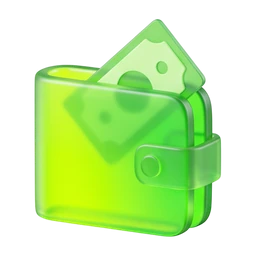
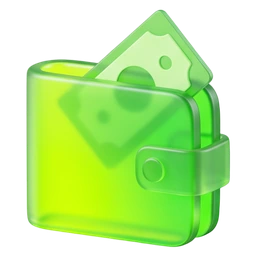
Ícones 3D: recorte com a transparência da fal (sem manchas brancas no escuro)
Claude-Session: https://claude.ai/code/session_0153DZoPQtKfxmP6LB1CwgVi

diff --git a/DESIGN.md b/DESIGN.md
@@ -34,5 +34,5 @@ One design, two palettes. The structure comes from the Duo Finn concept (sidebar
 - History bars are translucent green "glass" bars; the current month glows.
 
 ## Imagery
-- 3D icons in `public/img` (256px webp), one per card header, mapped in one place (`ILL` in `src/main.js`): carteira, calendario, balanca, cartoes, casa, cofre, grafico, bussola, cadeado, canecas, recibo, alvo. Translucent frosted glass in Robin Neon to Robinhood green, generated with fal (`google/nano-banana-2.1`) as two 3×2 sheets on white; white removed locally (background flood-fill plus color-to-alpha at the edges, so the glass stays soft on both themes).
+- 3D icons in `public/img` (256px webp), one per card header, mapped in one place (`ILL` in `src/main.js`): carteira, calendario, balanca, cartoes, casa, cofre, grafico, bussola, cadeado, canecas, recibo, alvo. Translucent frosted glass in Robin Neon to Robinhood green, generated with fal (`google/nano-banana-2.1`) as two 3×2 sheets on white; background removed with `fal-ai/birefnet/v2`, then cropped to 256px squares.
 - UI glyphs are authored line icons (`src/icons.js`).
